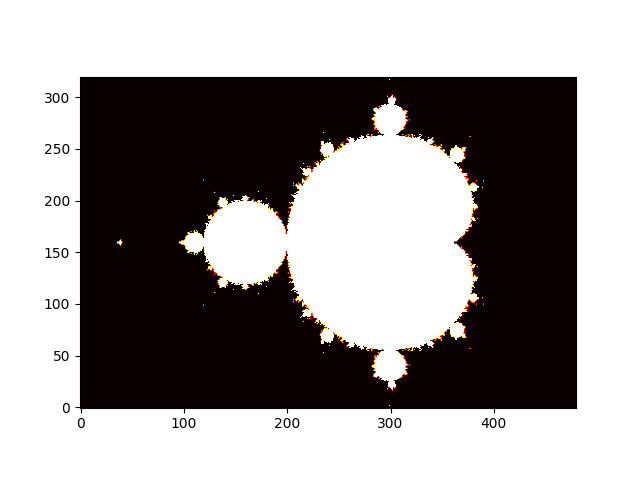
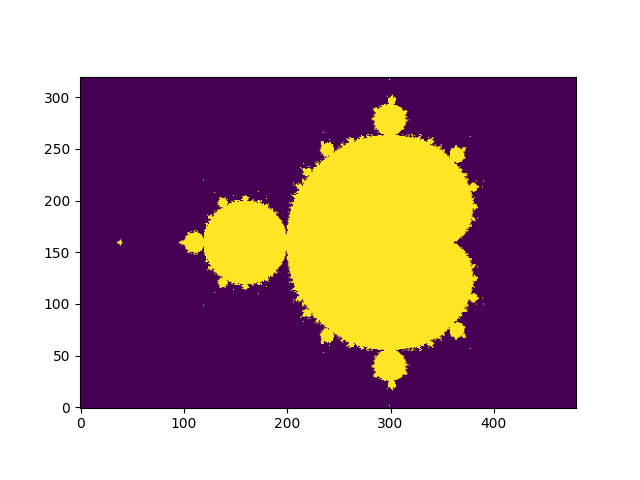
-

diff --git a/chaos/chaos_19/chaos_19.html b/chaos/chaos_19/chaos_19.html
@@ -622,7 +622,7 @@ class="sourceCode python"><code class="sourceCode python"><span id="cb2-1"><a hr
 <span id="cb2-11"><a href="#cb2-11" aria-hidden="true" tabindex="-1"></a>    Z[M] <span class="op">=</span> Z[M] <span class="op">*</span> Z[M] <span class="op">+</span> C[M]</span>
 <span id="cb2-12"><a href="#cb2-12" aria-hidden="true" tabindex="-1"></a>    M[np.<span class="bu">abs</span>(Z) <span class="op">&gt;</span> <span class="dv">2</span>] <span class="op">=</span> <span class="dv">0</span></span>
 <span id="cb2-13"><a href="#cb2-13" aria-hidden="true" tabindex="-1"></a></span>
-<span id="cb2-14"><a href="#cb2-14" aria-hidden="true" tabindex="-1"></a>plt.imshow(M,cmap<span class="op">=</span>cmap,origin<span class="op">=</span><span class="st">&#39;lower&#39;</span>)</span>
+<span id="cb2-14"><a href="#cb2-14" aria-hidden="true" tabindex="-1"></a>plt.imshow(M,origin<span class="op">=</span><span class="st">&#39;lower&#39;</span>)</span>
 <span id="cb2-15"><a href="#cb2-15" aria-hidden="true" tabindex="-1"></a>plt.savefig(<span class="st">&quot;mandel.png&quot;</span>)</span></code></pre></div>
 <p><img src="mandel.png" /></p>
 <p>Kaynaklar</p>

diff --git a/chaos/chaos_19/ders_19.html b/chaos/chaos_19/ders_19.html
@@ -622,7 +622,7 @@ class="sourceCode python"><code class="sourceCode python"><span id="cb2-1"><a hr
 <span id="cb2-11"><a href="#cb2-11" aria-hidden="true" tabindex="-1"></a>    Z[M] <span class="op">=</span> Z[M] <span class="op">*</span> Z[M] <span class="op">+</span> C[M]</span>
 <span id="cb2-12"><a href="#cb2-12" aria-hidden="true" tabindex="-1"></a>    M[np.<span class="bu">abs</span>(Z) <span class="op">&gt;</span> <span class="dv">2</span>] <span class="op">=</span> <span class="dv">0</span></span>
 <span id="cb2-13"><a href="#cb2-13" aria-hidden="true" tabindex="-1"></a></span>
-<span id="cb2-14"><a href="#cb2-14" aria-hidden="true" tabindex="-1"></a>plt.imshow(M,cmap<span class="op">=</span>cmap,origin<span class="op">=</span><span class="st">&#39;lower&#39;</span>)</span>
+<span id="cb2-14"><a href="#cb2-14" aria-hidden="true" tabindex="-1"></a>plt.imshow(M,origin<span class="op">=</span><span class="st">&#39;lower&#39;</span>)</span>
 <span id="cb2-15"><a href="#cb2-15" aria-hidden="true" tabindex="-1"></a>plt.savefig(<span class="st">&quot;mandel.png&quot;</span>)</span></code></pre></div>
 <p><img src="mandel.png" /></p>
 <p>Kaynaklar</p>
